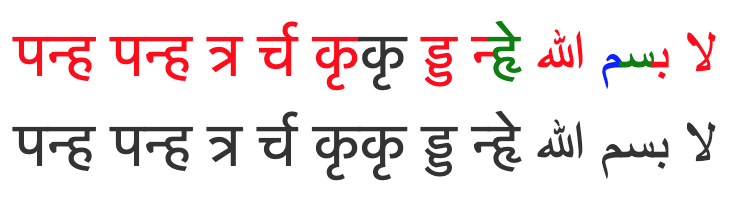
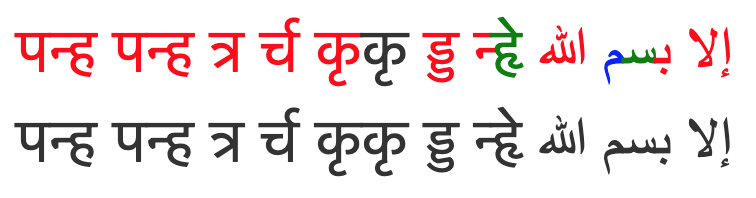
fixup arabic example

diff --git a/blah/text-hates-you/index.html b/blah/text-hates-you/index.html
@@ -107,10 +107,10 @@
 <h2 id="style-can-change-mid-ligature" class="section-header"><a href="#style-can-change-mid-ligature">3.2 Style Can Change Mid-Ligature</a></h2>
 <p>Ok this one is <em>mostly</em> a curiosity in that I'm not aware of any super-reasonable cases where this happens, but it naturally falls out of markups. Here's two pieces of text with the same <em>content</em> but different color styling:</p>
 <div style="font-size:30px; line-height: 1.5em;">
-  <span style="color:red;">पन</span>्ह <span style="color:red">पन्</span>ह <span style="color:red">त</span>्र <span style="color:red">र्</span>च <span style="color:red">क</span>ृक<span style="color:red">ृ</span> <span style="color:red">ड</span><span style="color:green">्ड</span> <span style="color:red">न</span><span style="color:green">्ह</span><span style="color:blue">ृ</span><span style="color:orange">े</span>  <span style="color:red">ل</span><span style="color:green">ا</span> <span style="color:red">ب</span><span style="color:green">س</span><span style="color:blue">م</span>  <span style="color:red">ا</span><span style="color:green">ل</span><span style="color:blue">ل</span><span style="color:orange">ه</span>
+  <span style="color:red;">पन</span>्ह <span style="color:red">पन्</span>ह <span style="color:red">त</span>्र <span style="color:red">र्</span>च <span style="color:red">क</span>ृक<span style="color:red">ृ</span> <span style="color:red">ड</span><span style="color:green">्ड</span> <span style="color:red">न</span><span style="color:green">्ह</span><span style="color:blue">ृ</span><span style="color:orange">े</span>  <span style="color:red">إل</span><span style="color:green">ا</span> <span style="color:red">ب</span><span style="color:green">س</span><span style="color:blue">م</span>  <span style="color:red">ا</span><span style="color:green">ل</span><span style="color:blue">ل</span><span style="color:orange">ه</span>
 </div>
 <div style="font-size:30px; line-height: 1.5em;">
-   पन्ह पन्ह त्र र्च कृकृ ड्ड न्हृे لا بسم الله
+   पन्ह पन्ह त्र र्च कृकृ ड्ड न्हृे إلا بسم الله
 </div>
 <p><br><br></p>
 <p>Here's what they look like in Safari:</p>
@@ -236,7 +236,7 @@
 <p>So here's some fun text:</p>
 <br>
 <div style="font-size: 25px; line-height: 1.5em">
-Hello There <span style="color:#8A2BE2">لا بسم الله</span> Beep Boop!!
+Hello There <span style="color:#8A2BE2">إلا بسم الله</span> Beep Boop!!
 </div>
 <br>
 <p>On a desktop, if you drag your mouse across that text to select it, you may notice that the selection becomes discontinuous and jumpy in the middle. This is because we're mixing left-to-right and right-to-left text in the same line, which absolutely happens all the time.</p>

diff --git a/blah/text-hates-you/index.md b/blah/text-hates-you/index.md
@@ -119,11 +119,11 @@ A "correct" implementation will draw the text to a temporary surface *without* t
 Ok this one is *mostly* a curiosity in that I'm not aware of any super-reasonable cases where this happens, but it naturally falls out of markups. Here's two pieces of text with the same *content* but different color styling:
 
 <div style="font-size:30px; line-height: 1.5em;">
-  <span style="color:red;">पन</span>्ह <span style="color:red">पन्</span>ह <span style="color:red">त</span>्र <span style="color:red">र्</span>च <span style="color:red">क</span>ृक<span style="color:red">ृ</span> <span style="color:red">ड</span><span style="color:green">्ड</span> <span style="color:red">न</span><span style="color:green">्ह</span><span style="color:blue">ृ</span><span style="color:orange">े</span>  <span style="color:red">ل</span><span style="color:green">ا</span> <span style="color:red">ب</span><span style="color:green">س</span><span style="color:blue">م</span>  <span style="color:red">ا</span><span style="color:green">ل</span><span style="color:blue">ل</span><span style="color:orange">ه</span>
+  <span style="color:red;">पन</span>्ह <span style="color:red">पन्</span>ह <span style="color:red">त</span>्र <span style="color:red">र्</span>च <span style="color:red">क</span>ृक<span style="color:red">ृ</span> <span style="color:red">ड</span><span style="color:green">्ड</span> <span style="color:red">न</span><span style="color:green">्ह</span><span style="color:blue">ृ</span><span style="color:orange">े</span>  <span style="color:red">إل</span><span style="color:green">ا</span> <span style="color:red">ب</span><span style="color:green">س</span><span style="color:blue">م</span>  <span style="color:red">ا</span><span style="color:green">ل</span><span style="color:blue">ل</span><span style="color:orange">ه</span>
 </div>
 
 <div style="font-size:30px; line-height: 1.5em;">
-   पन्ह पन्ह त्र र्च कृकृ ड्ड न्हृे لا بسم الله
+   पन्ह पन्ह त्र र्च कृकृ ड्ड न्हृे إلا بسم الله
 </div>
 
 <br><br>
@@ -359,7 +359,7 @@ So here's some fun text:
 <br>
 
 <div style="font-size: 25px; line-height: 1.5em">
-Hello There <span style="color:#8A2BE2">لا بسم الله</span> Beep Boop!!
+Hello There <span style="color:#8A2BE2">إلا بسم الله</span> Beep Boop!!
 </div>
 
 <br>
